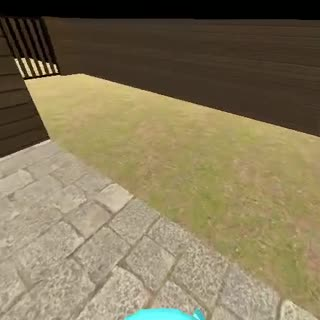
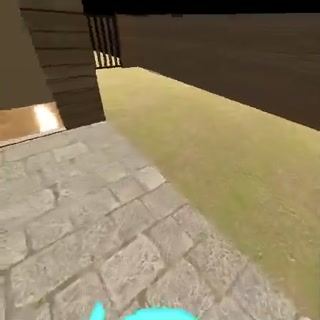
Fix ineffective-exploration step 43 frame (correct ego crop, cache-busted)

diff --git a/index.html b/index.html
@@ -1177,7 +1177,7 @@
           <div class="err-legend"><span><mark class='bad'>red highlight</mark> = incorrect claim</span><span><mark class='ok'>green highlight</mark> = correct</span></div>
           <div class="err-analysis">
 <div class='mo'><div class='mo-top'>
-<div class='shot' data-t='21.5'><img src='static/imgs/errcases/find_ineffective_exploration__011/step_043.jpg' loading='lazy'><div class='stamp'>step 43 &nbsp;·&nbsp; <b>21.5s</b></div></div>
+<div class='shot' data-t='21.5'><img src='static/imgs/errcases/find_ineffective_exploration__011/step_043.jpg?v=2' loading='lazy'><div class='stamp'>step 43 &nbsp;·&nbsp; <b>21.5s</b></div></div>
 <div><div class='flds'>
 <p class='fld'><span class='fl'>visual state:</span> From left to right, I can see a wooden wall structure with horizontal planks, about 0.5 meters from me; a stone-paved patio area extending forward and to the right, about 1 meter from me; and a grassy area, about 1 meter from me. <mark class='ok'>The target object (a chair) is not visible.</mark> The near-body lane is clear to the right.</p>
 <p class='fld'><span class='fl'>mid-level reason:</span> The high-level instruction is to find a chair and move until touching it. <mark class='ok'>I have been navigating along the exterior of a wooden structure on a stone patio for many steps without finding the chair.</mark> The previous action was a walk forward. The current view shows the same wall and patio. To find the chair, I need to look in a different direction. I will turn right to scan for the chair.</p>

diff --git a/tools/build_failure_gallery.py b/tools/build_failure_gallery.py
@@ -13,6 +13,10 @@ VIDEO_TRIM={
 }
 # per-case literal replacements applied to the generated moment HTML
 POST_FIX={
+ 'find_ineffective_exploration__011': [
+   ("src='static/imgs/errcases/find_ineffective_exploration__011/step_043.jpg'",
+    "src='static/imgs/errcases/find_ineffective_exploration__011/step_043.jpg?v=2'"),
+ ],
  'nav_unaware_arrived_touch__009': [
    ("<mark class='ok'>The previous action was a failed planner call, and the verifier suggested a small forward movement.</mark> ",
     ""),
